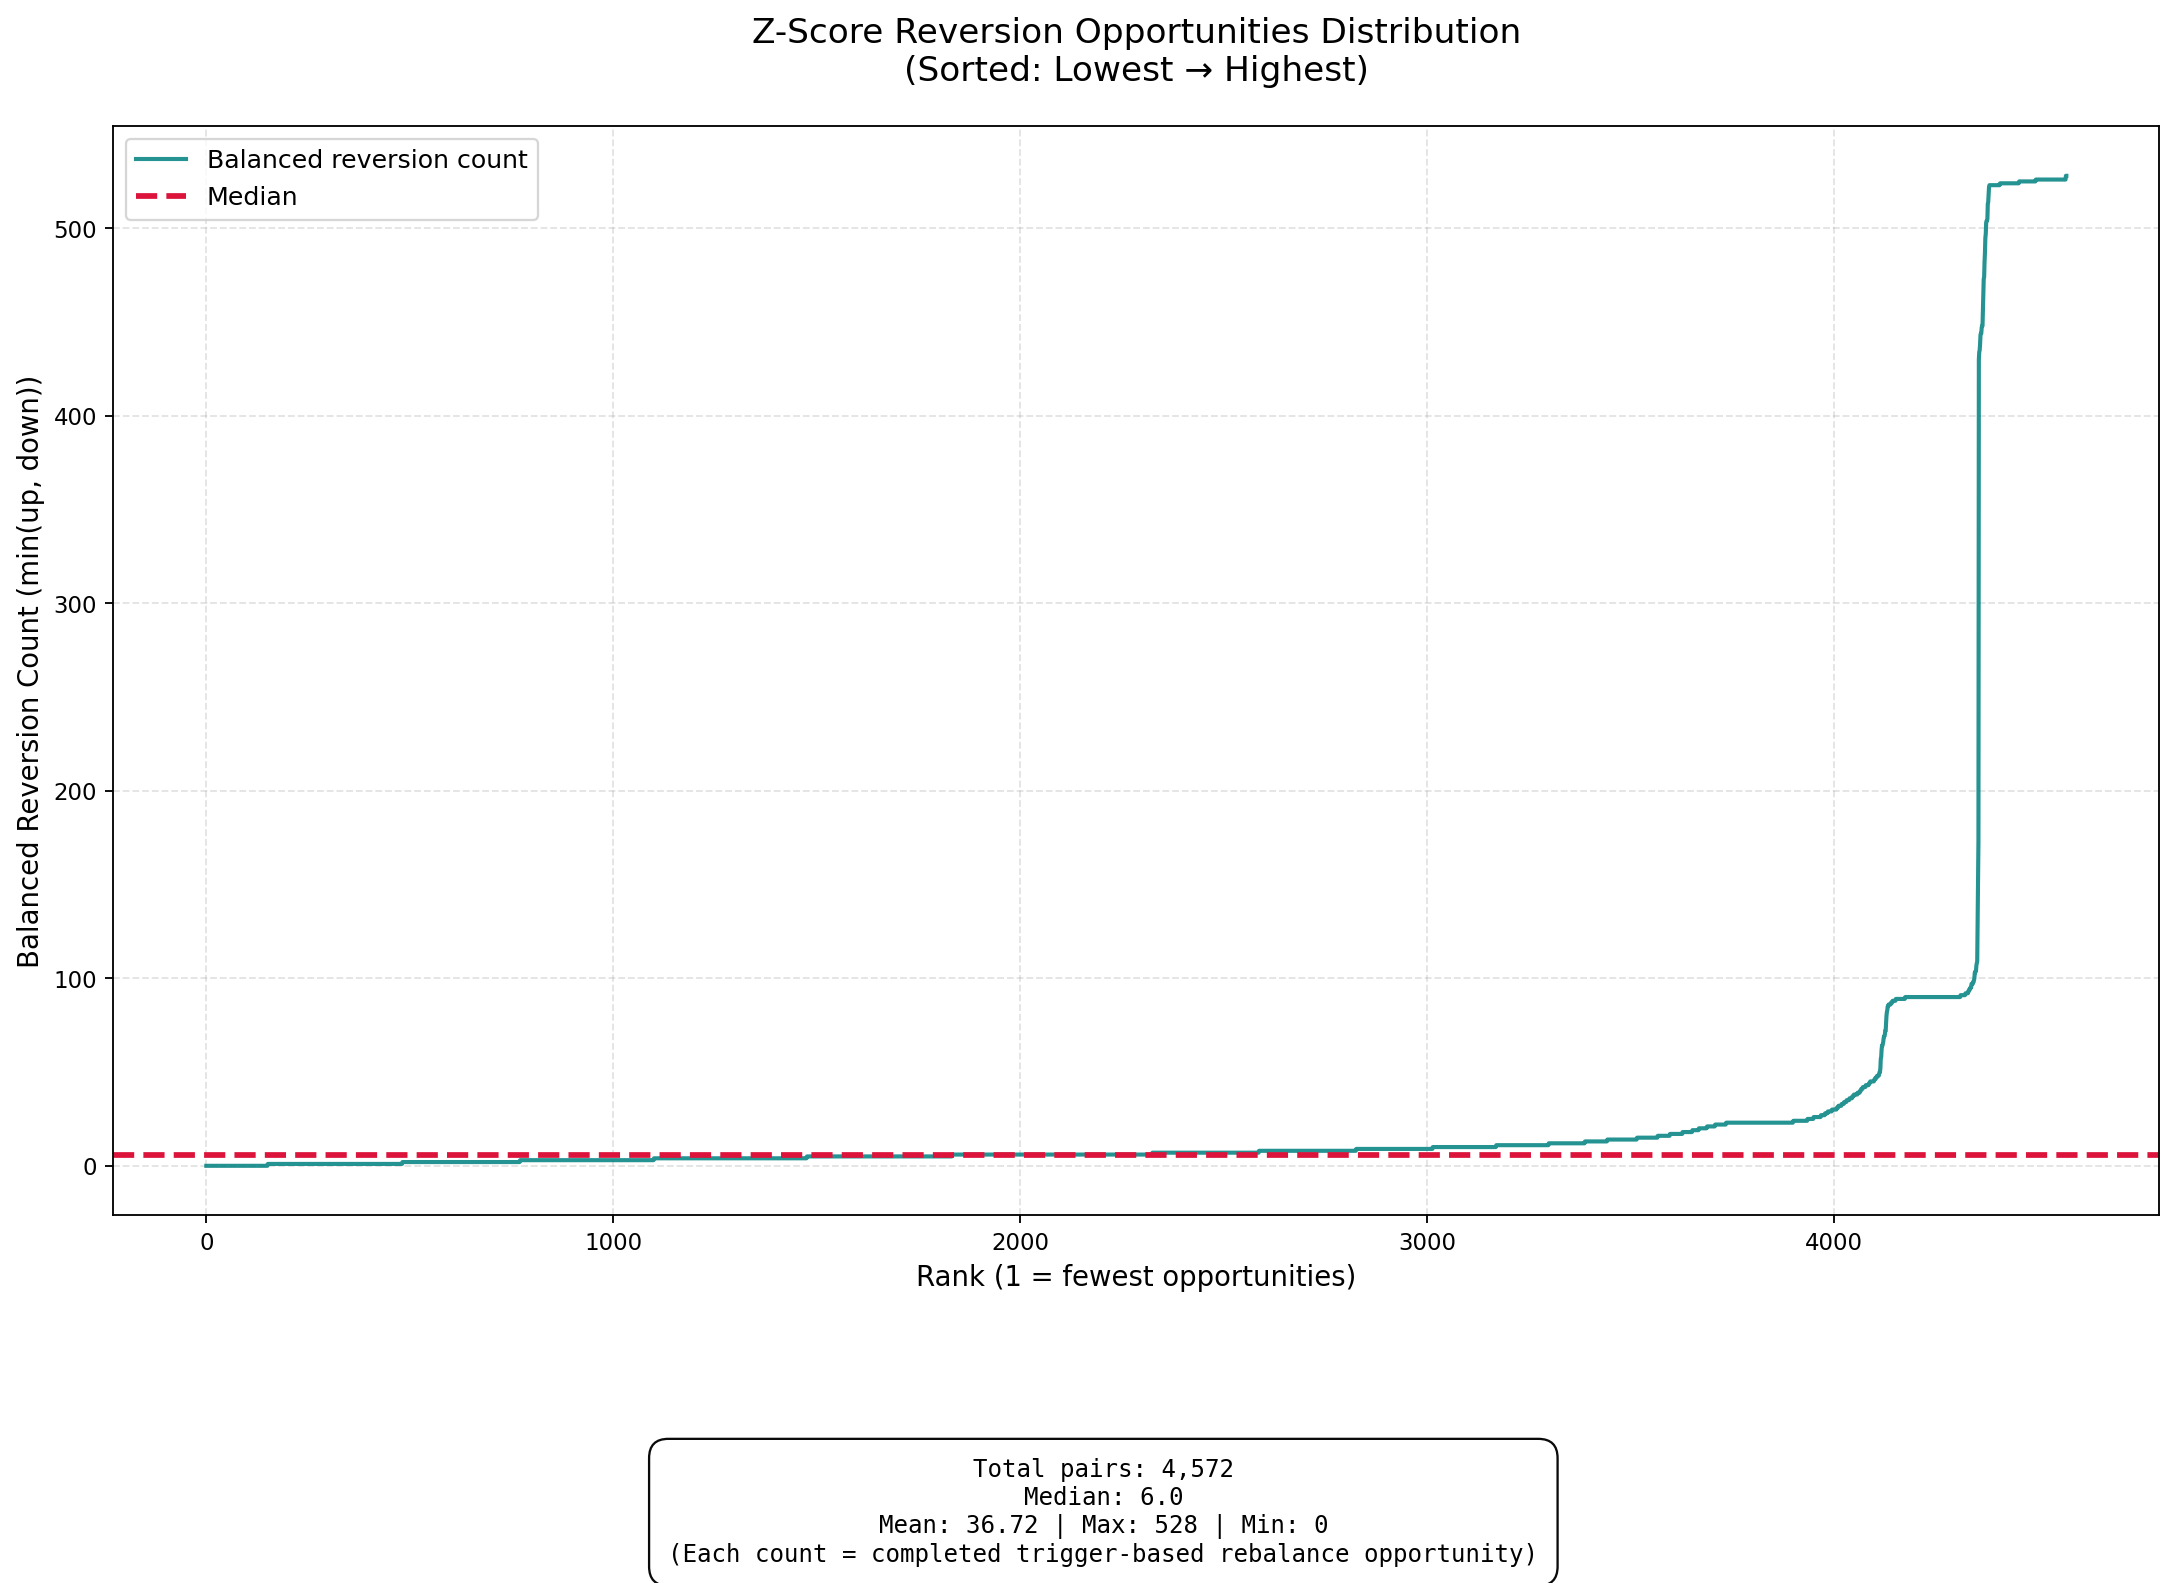
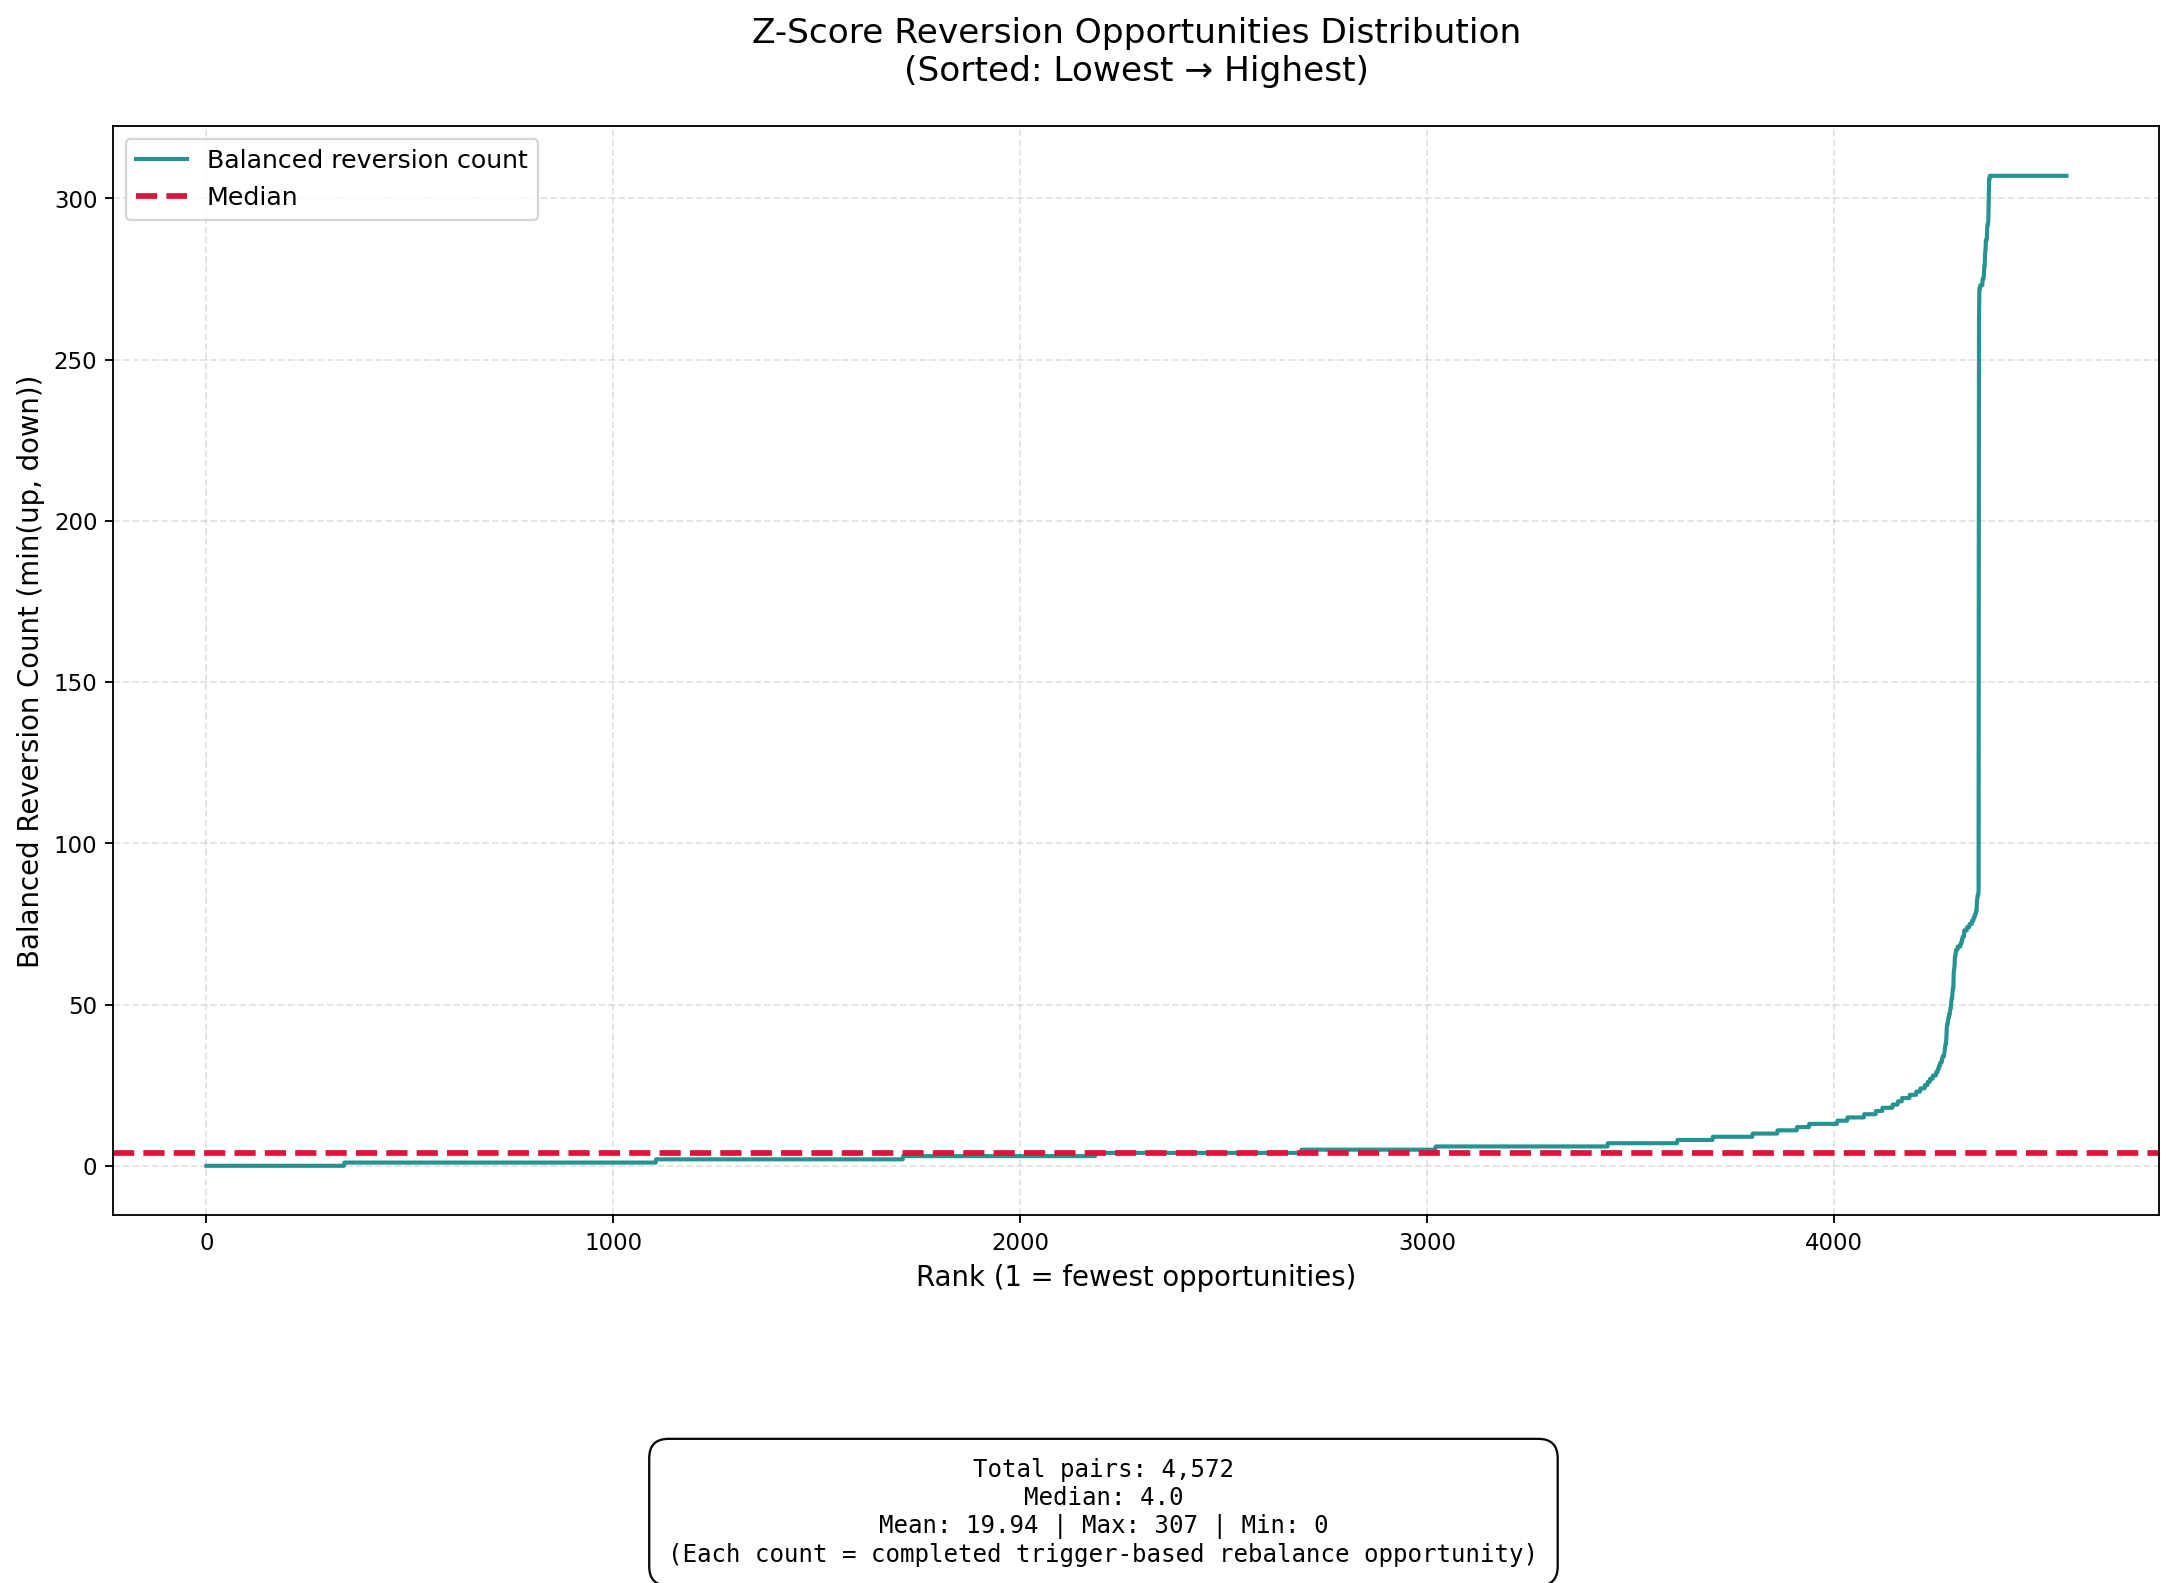
save

diff --git a/src/pcv2/backtester.py b/src/pcv2/backtester.py
@@ -7,14 +7,14 @@ from datetime import datetime
 # ====================== CONFIG SECTION ======================
 # ←←← EDIT THESE VALUES ONLY ←←←
 CONFIG = {
-    'asset_a': 'BABYDOGE',
-    'asset_b': 'BSV',
+    'asset_a': 'BSV',
+    'asset_b': 'ZK',
     'target_weight_a': 0.50,
     'outer_buffer': 0.05,
     'inner_rebalance_dev': 0.0,
     'initial_capital': 2000.0,
     'fee_rate': 0.01,
-    'backtest_months': 18,          # set to 0 or negative for FULL dataset
+    'backtest_months': 3,          # set to 0 or negative for FULL dataset
     'csv_path': 'top300_hourly_18months_combined.csv',
 }
 # ==========================================================
